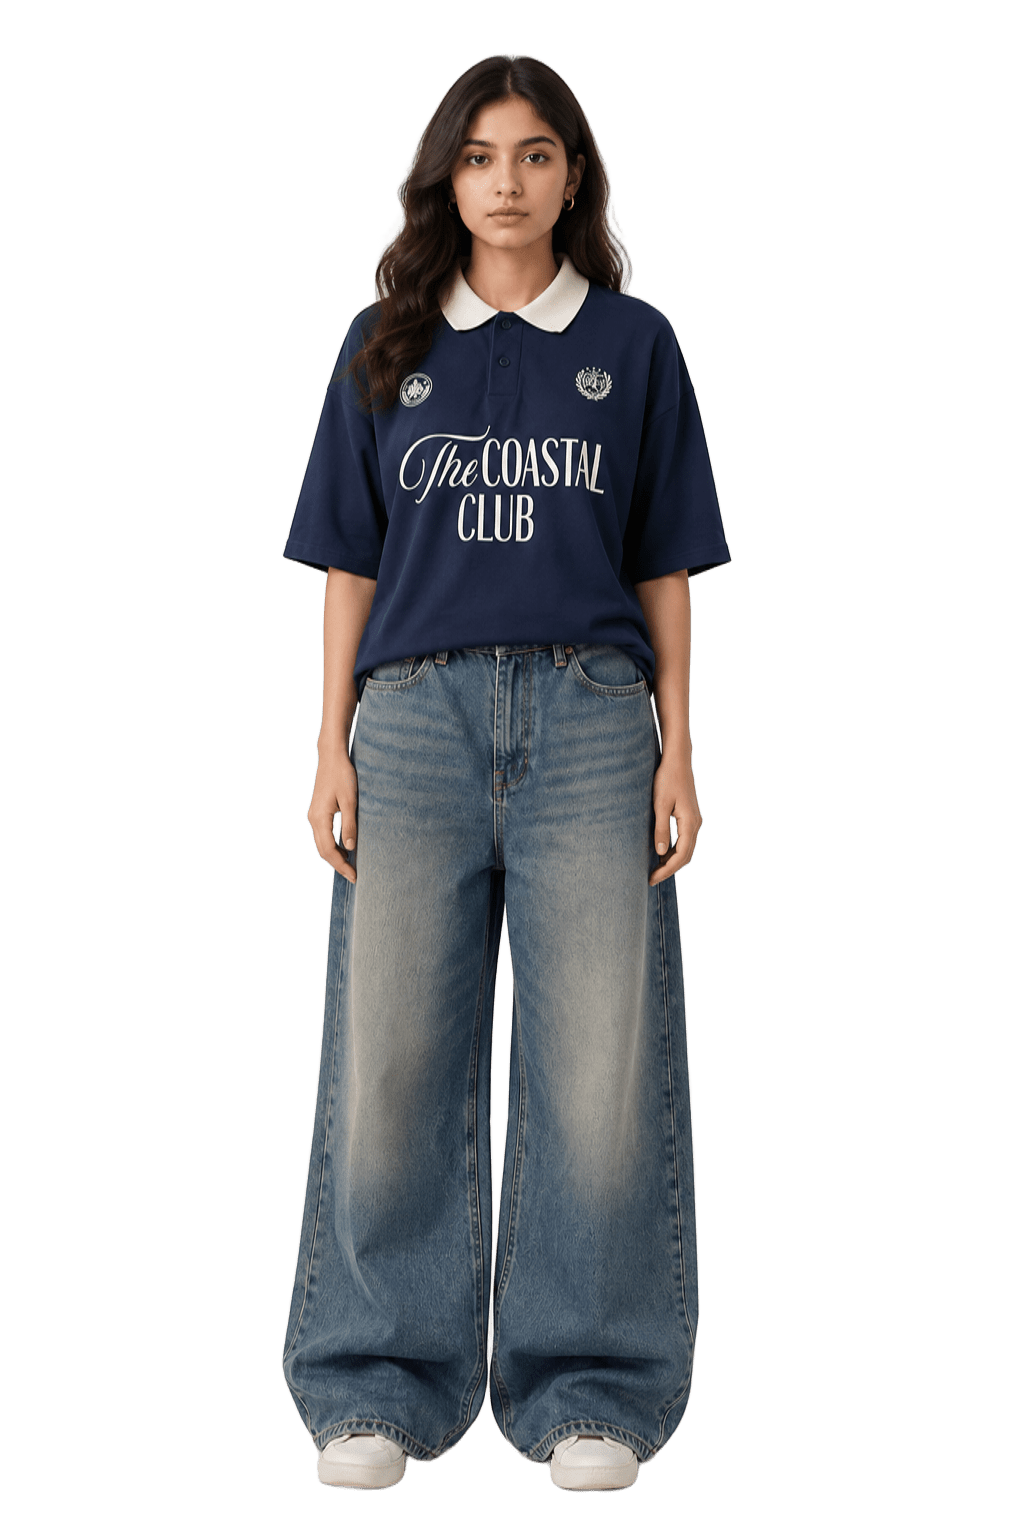
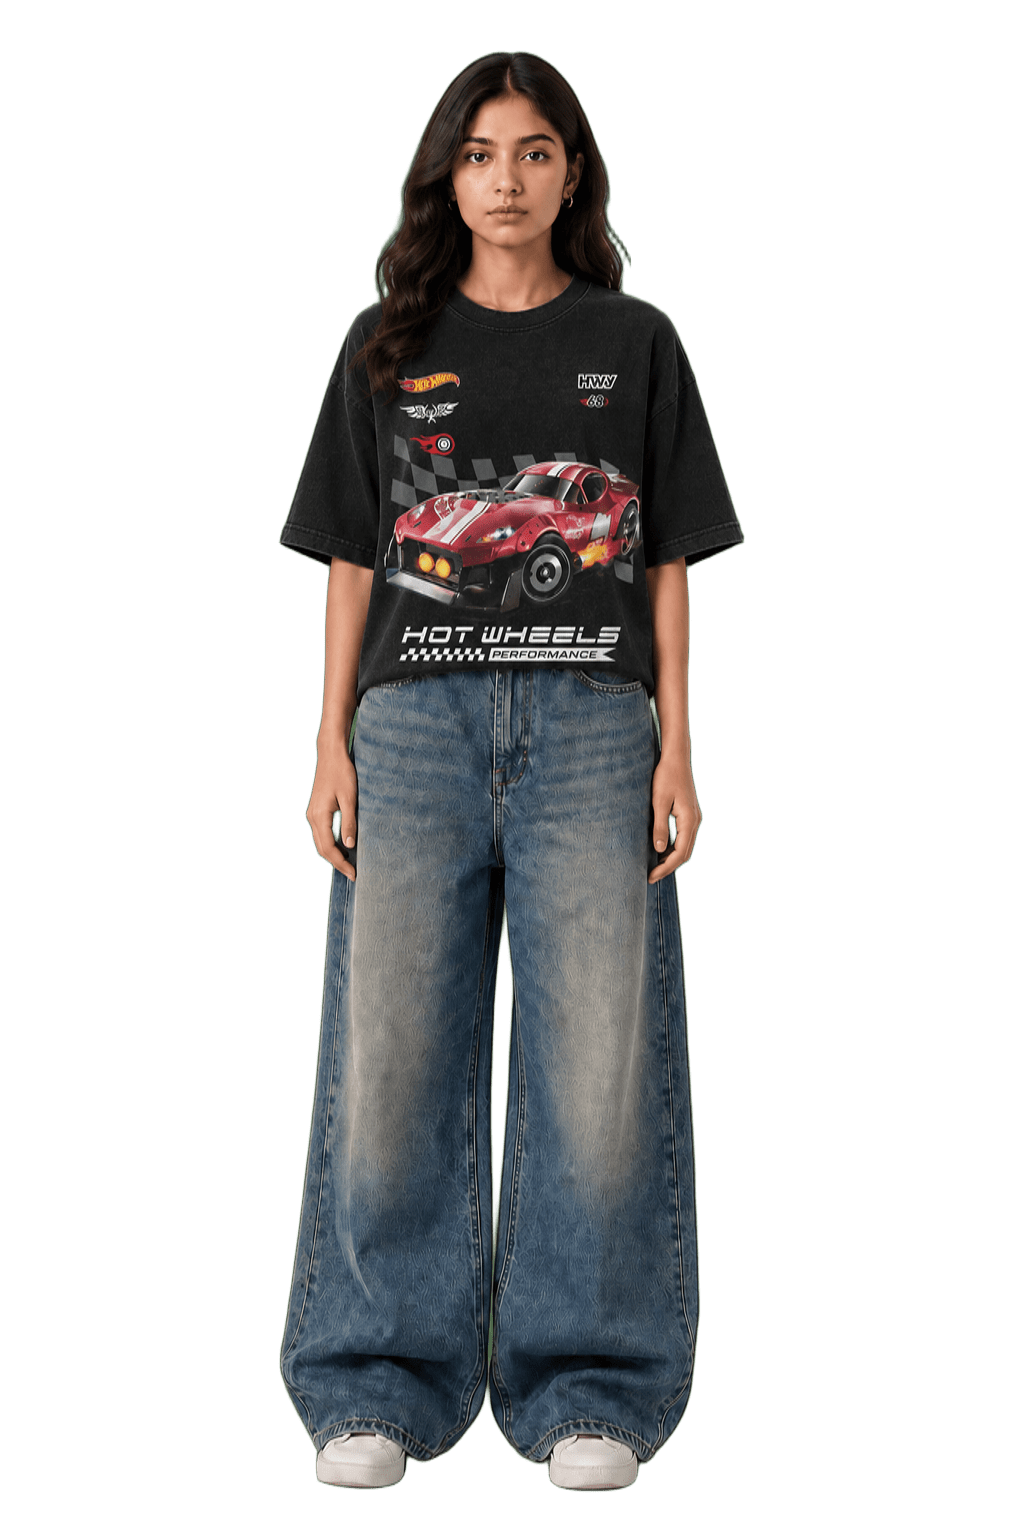
update ClothingConfigurator.jsx

Changed region(s): [[0.25, 0.0312, 0.7188, 0.9688], [0.4375, 0.625, 0.5312, 0.9375], [0.4688, 0.5938, 0.5, 0.625]]

diff --git a/client/src/sections/ClothingConfigurator.jsx b/client/src/sections/ClothingConfigurator.jsx
@@ -21,71 +21,35 @@ const ClothingConfigurator = () => {
   const rightArrowRef = useRef(null);
 
   // =================================
-  // MALE MODEL - DEFAULT OUTFIT
+  // ANGLE → INDEX MAPPING
   // =================================
-
-  const maleModels = {
-    "-135": "/model/model-6.png",
-    "-90": "/model/model-4.png",
-    "-45": "/model/model-5.png",
-    0: "/model/model-1.png",
-    45: "/model/model-7.png",
-    90: "/model/model-2.png",
-    135: "/model/model-8.png",
-    180: "/model/model-3.png",
+  const angleToIndex = {
+    "-135": 6,
+    "-90": 4,
+    "-45": 5,
+    0: 1,
+    45: 7,
+    90: 2,
+    135: 8,
+    180: 3,
   };
 
   // =================================
-  // MALE MODEL - BLUE TSHIRT
+  // DYNAMIC MODEL PATH
   // =================================
-  // For now all 8 positions use the
-  // same image. Replace them later.
-
-  const maleBlueTshirtModels = {
-    "-135": "/model/male-model-211-1.png",
-    "-90": "/model/male-model-211-1.png",
-    "-45": "/model/male-model-211-1.png",
-    0: "/model/male-model-211-1.png",
-    45: "/model/male-model-211-1.png",
-    90: "/model/male-model-211-1.png",
-    135: "/model/male-model-211-1.png",
-    180: "/model/male-model-211-1.png",
-  };
-
-  const maleThreeOneOneModels = {
-    "-135": "/model/male-model-311-1.png",
-    "-90": "/model/male-model-311-1.png",
-    "-45": "/model/male-model-311-1.png",
-    0: "/model/male-model-311-1.png",
-    45: "/model/male-model-311-1.png",
-    90: "/model/male-model-311-1.png",
-    135: "/model/male-model-311-1.png",
-    180: "/model/male-model-311-1.png",
-  };
-
-  // =================================
-  // FEMALE MODELS
-  // =================================
-  // For now all 8 positions use the
-  // same female image.
-
-  const femaleModels = {
-    "-135": "/model/female-model-111-1.png",
-    "-90": "/model/female-model-111-1.png",
-    "-45": "/model/female-model-111-1.png",
-    0: "/model/female-model-111-1.png",
-    45: "/model/female-model-111-1.png",
-    90: "/model/female-model-111-1.png",
-    135: "/model/female-model-111-1.png",
-    180: "/model/female-model-111-1.png",
+  const getModelImage = (ang) => {
+    const idx = angleToIndex[String(ang)];
+    const t = topwearIndex + 1;
+    const b = bottomwearIndex + 1;
+    const s = shoesIndex + 1;
+    return `/model/${gender}-model-${t}${b}${s}-${idx}.png`;
   };
 
   // =================================
   // CLOTHING DATA
   // =================================
-
   const topwear = [
-    "/cloths/topwear/red-shirt.png",
+    "/cloths/topwear/bonker-bhw-tshirt.png",
     "/cloths/topwear/bonker-cc.png",
     "/cloths/topwear/bonker-hw-tshirt.png",
   ];
@@ -101,34 +65,11 @@ const ClothingConfigurator = () => {
   ];
 
   // =================================
-  // SELECT CURRENT MODEL
-  // =================================
-
-  let models;
-
-  if (gender === "female") {
-    models = femaleModels;
-  } else if (topwearIndex === 1) {
-    // Third T-shirt selected
-    models = maleBlueTshirtModels;
-  } else if (topwearIndex === 2) {
-    models = maleThreeOneOneModels;
-  } else {
-    // Normal male model
-    models = maleModels;
-  }
-
-  // =================================
   // GENDER SELECTION
   // =================================
-
   const selectGender = (selectedGender) => {
     setGender(selectedGender);
-
-    // Start from front
     setAngle(0);
-
-    // Reset image rotation
     gsap.set(imageRef.current, {
       rotate: 0,
     });
@@ -137,16 +78,12 @@ const ClothingConfigurator = () => {
   // =================================
   // MODEL ROTATION
   // =================================
-
   const rotateRight = () => {
     const nextAngle = angle === 180 ? -135 : angle + 45;
 
-    // Right arrow click effect
     gsap.fromTo(
       rightArrowRef.current,
-      {
-        scale: 1,
-      },
+      { scale: 1 },
       {
         scale: 0.75,
         duration: 0.08,
@@ -156,13 +93,11 @@ const ClothingConfigurator = () => {
       },
     );
 
-    // Model rotation
     gsap.to(imageRef.current, {
       duration: 0.25,
       ease: "power2.inOut",
       onComplete: () => {
         setAngle(nextAngle);
-
         gsap.set(imageRef.current, {
           rotate: 0,
         });
@@ -173,12 +108,9 @@ const ClothingConfigurator = () => {
   const rotateLeft = () => {
     const nextAngle = angle === -135 ? 180 : angle - 45;
 
-    // Left arrow click effect
     gsap.fromTo(
       leftArrowRef.current,
-      {
-        scale: 1,
-      },
+      { scale: 1 },
       {
         scale: 0.75,
         duration: 0.08,
@@ -188,13 +120,11 @@ const ClothingConfigurator = () => {
       },
     );
 
-    // Model rotation
     gsap.to(imageRef.current, {
       duration: 0.25,
       ease: "power2.inOut",
       onComplete: () => {
         setAngle(nextAngle);
-
         gsap.set(imageRef.current, {
           rotate: 0,
         });
@@ -205,14 +135,9 @@ const ClothingConfigurator = () => {
   // =================================
   // TOPWEAR
   // =================================
-
   const nextTopwear = () => {
     setTopwearIndex((prev) => (prev + 1) % topwear.length);
-
-    // Whenever clothing changes,
-    // start from the front
     setAngle(0);
-
     gsap.set(imageRef.current, {
       rotate: 0,
     });
@@ -220,10 +145,7 @@ const ClothingConfigurator = () => {
 
   const previousTopwear = () => {
     setTopwearIndex((prev) => (prev - 1 + topwear.length) % topwear.length);
-
-    // Start from front
     setAngle(0);
-
     gsap.set(imageRef.current, {
       rotate: 0,
     });
@@ -232,7 +154,6 @@ const ClothingConfigurator = () => {
   // =================================
   // BOTTOMWEAR
   // =================================
-
   const nextBottomwear = () => {
     setBottomwearIndex((prev) => (prev + 1) % bottomwear.length);
   };
@@ -246,7 +167,6 @@ const ClothingConfigurator = () => {
   // =================================
   // SHOES
   // =================================
-
   const nextShoes = () => {
     setShoesIndex((prev) => (prev + 1) % shoes.length);
   };
@@ -343,7 +263,7 @@ const ClothingConfigurator = () => {
             <div className="h-full overflow-hidden">
               <img
                 ref={imageRef}
-                src={models[angle]}
+                src={getModelImage(angle)}
                 alt={`${gender} model`}
                 className="h-full object-contain"
               />
